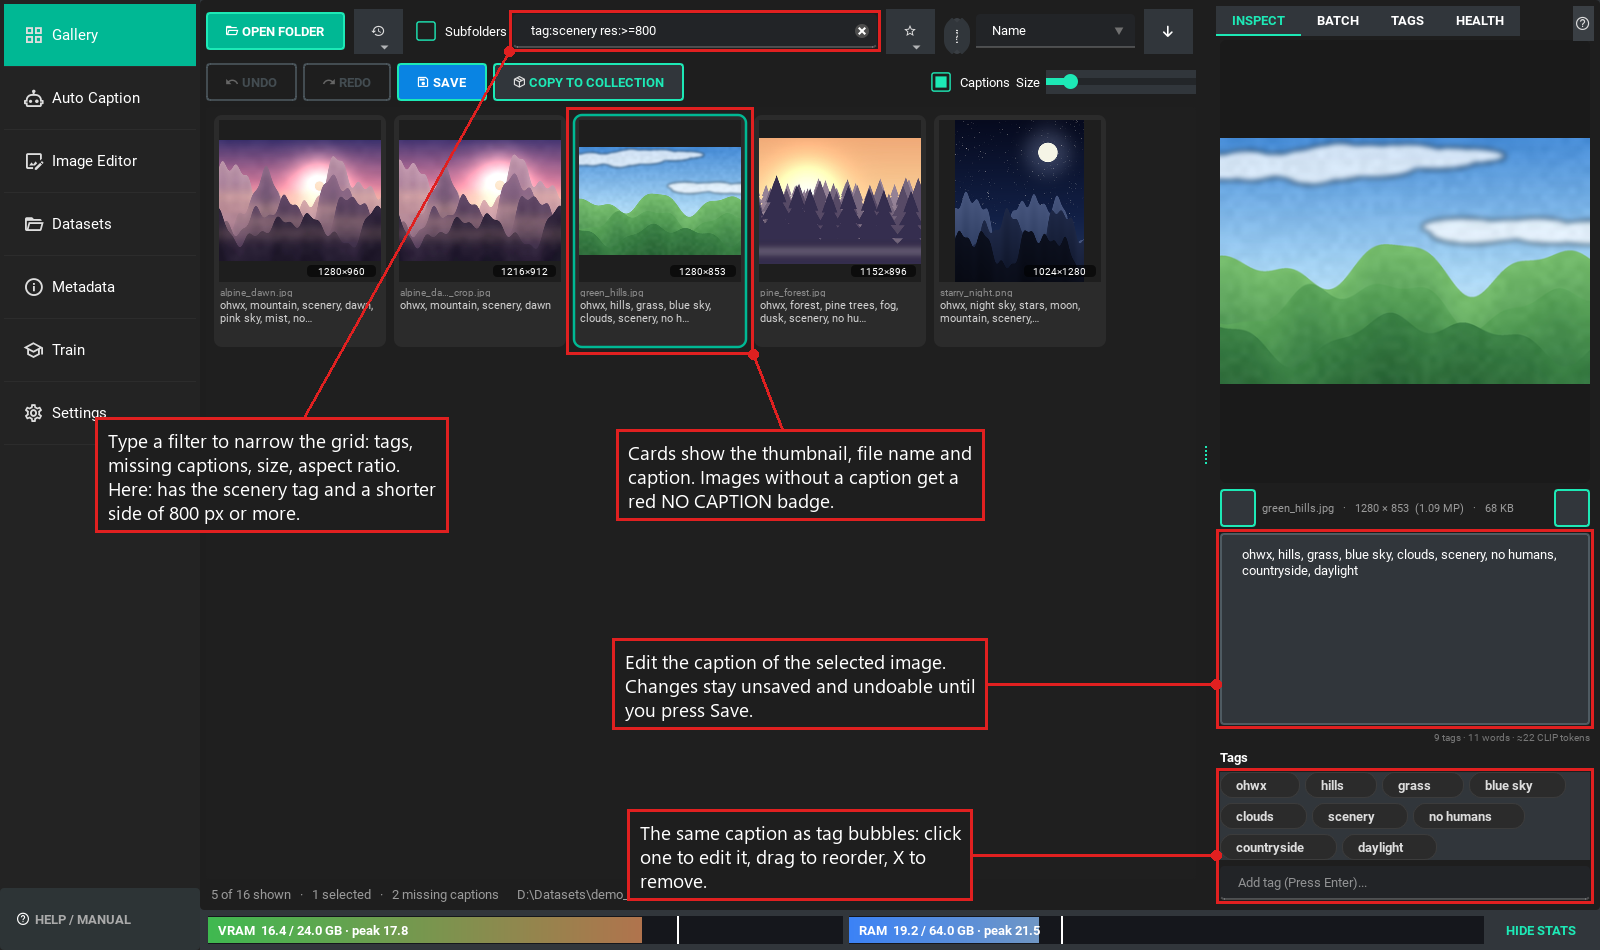
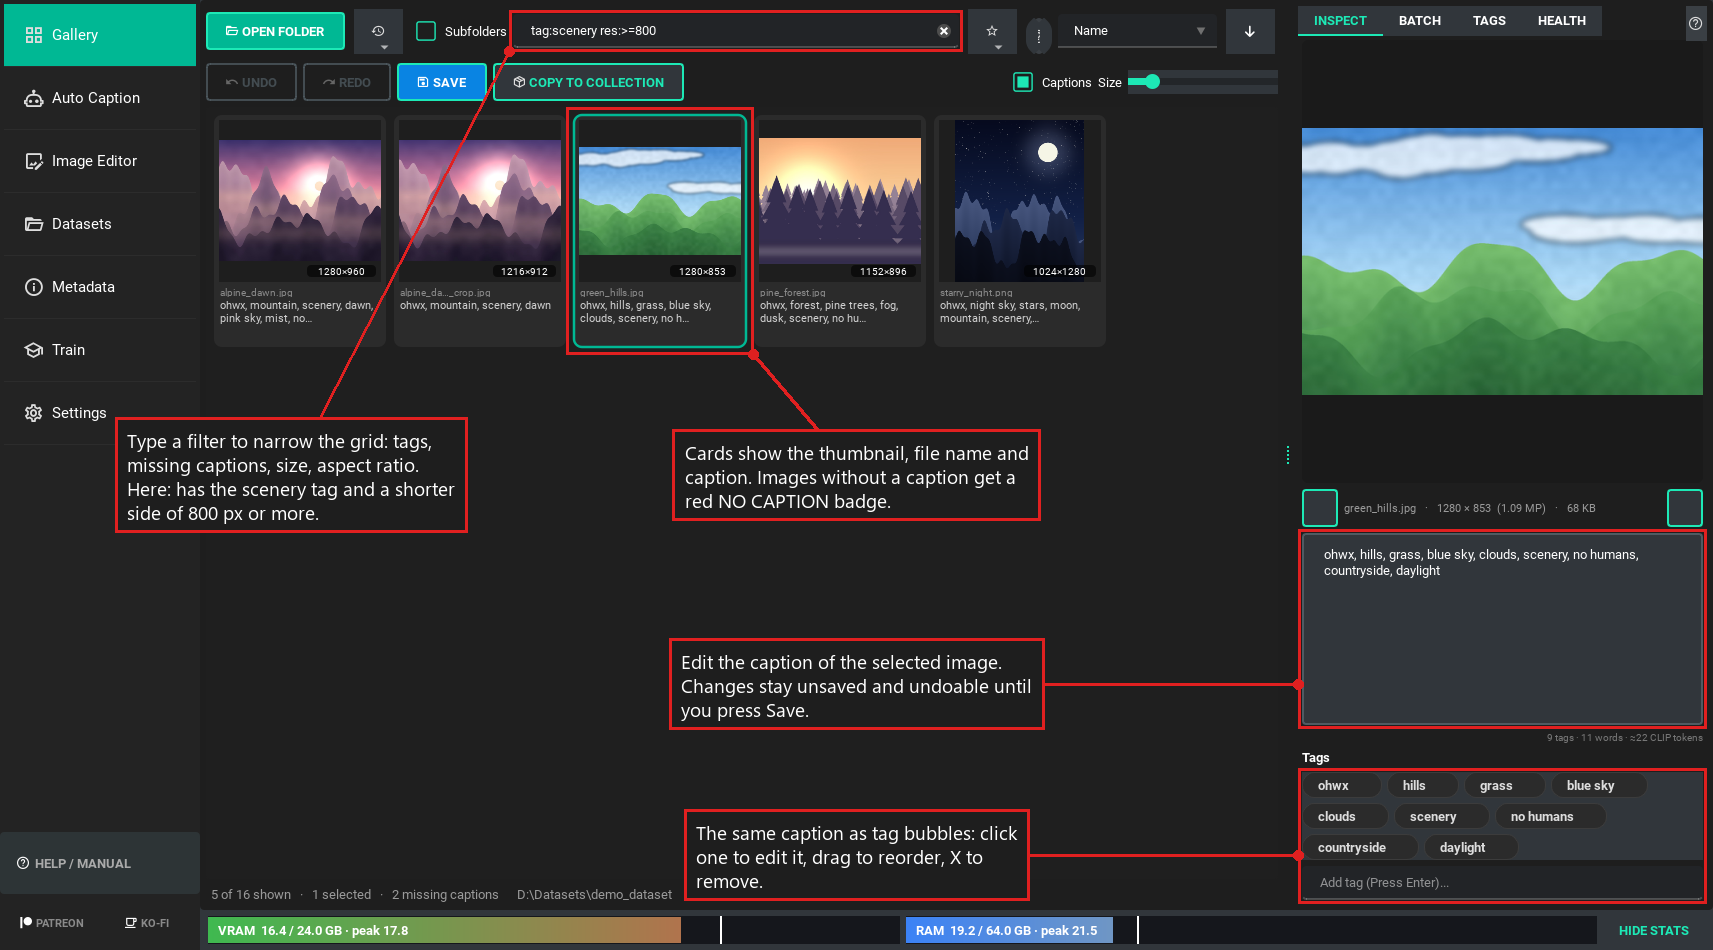
README and screenshots: the current state of the app
Screenshots regenerated with tools/make_screenshots.py (generated demo data):
sidebar icons and support links, the renamed presets and "Hard images", the
new Auto Caption options, "Copy log for sharing" and "Export for sharing".
What's new gains the faster captioning pipeline, the thorough metadata
cleaning, a Privacy and safety section, the two new themes and the quicker
workspace, each with what has and has not been run on real hardware.

diff --git a/tools/make_screenshots.py b/tools/make_screenshots.py
@@ -1470,7 +1470,7 @@ def build_shots() -> None:
         Note(lambda s: WINDOW.tab_train.btn_start.parentWidget().findChildren(QPushButton)[0:3],
              "Start, pause after the current epoch, or stop. Pause saves a state you can resume from.", (0.3, 0.25)),
     ], after=reset_train))
-    S(Shot("12_problem_images.png", shot_problem_images, [
+    S(Shot("12_hard_images.png", shot_problem_images, [
         Note(lambda s: row_rect(s.base.table, s.base.stuck_row),
              "Images that are not learning. Stuck and suspect images usually have a wrong or too short caption.",
              (0.28, 0.75)),

diff --git a/README.md b/README.md
@@ -59,12 +59,19 @@ is a dataset studio with training built in.
   OpenAI-compatible server, and the WD v3 taggers.
 - **A review queue** with a word-level diff, so nothing an AI writes replaces your caption until you accept it.
 - **Caption recipes and presets:** a required subject or trigger word, existing tags as hints, your own presets.
+- **Faster large jobs on API servers** (LM Studio, llama.cpp, vLLM, cloud): TagScribeR finds the best number of
+  parallel requests by measuring, prepares pictures ahead on helper threads, can shrink pictures to a pixel budget
+  and can stop a reply that repeats itself. A live line shows pictures per minute and the time left, and a job can
+  be paused and resumed. `tools/bench_caption.py` measures your own server on generated test pictures. (Tested
+  against a simulated server so far; the gain on a real model is for that benchmark to show.)
 
 **Dataset tools**
 
 - **Search-style filters** with saved filters per folder, batch tag editing and tag statistics.
 - **Dataset health:** duplicates and near-duplicates, blur, low resolution and a bucket preview.
 - **Metadata tools:** a privacy audit, lossless cleanup, authorship templates and embedded prompts to captions.
+  Cleaning removes location, device and identity data wherever a file can hide it (GPS, maker notes, IPTC, extended
+  XMP, embedded previews, content credentials, data appended after the picture) and re-reads each file to confirm.
 - **Image editor and export** built on the same workspace, with metadata-preserving edits.
 
 **Training (new)**
@@ -92,11 +99,24 @@ is a dataset studio with training built in.
 - **Edit LoRAs with extra pictures** (Klein up to 3, Qwen Image 2.1 up to 9) and Klein's Steps / CFG following the
   Distilled tick.
 
+**Privacy and safety**
+
+- **API keys** live in the OS keychain, are tied to the server they were saved for, never appear in the log file
+  and are really deleted when you clear them.
+- **Share without leaking:** "Copy log for sharing" replaces your user name and folders with placeholders, and
+  "Export for sharing" saves a training preset without paths or personal text. LoRA files carry no paths.
+- **Untrusted text stays text:** captions, file metadata and server replies are never interpreted as markup.
+- A full security and privacy review is in [docs/dev/audit](docs/dev/audit/14_security_privacy_safety_review.md).
+
 **Everyday use**
 
 - **Ctrl+K command palette, a searchable Help Center** (F1 opens help for the current tab) and tooltips on every
   control. A simple view for beginners and "Show all settings" for everything else.
-- **About 350 automated tests**, which never touch your GPU, so they are safe to run while you train.
+- **Two new themes**, TagScribeR dark and TagScribeR light (Settings, Appearance). The classic look stays the
+  default for now; the screenshots here show it.
+- **A quicker workspace:** coming back to the Gallery, reopening a folder and sorting large folders no longer
+  freeze the window (measured on generated folders of 5,000 pictures; more of this is planned).
+- **Over 1,000 automated tests**, which never touch your GPU, so they are safe to run while you train.
 
 ---
 
@@ -285,7 +305,7 @@ What you get while it runs:
 
 ![Sample previews](docs/screenshots/11_train_samples.png)
 
-![Hard images](docs/screenshots/12_problem_images.png)
+![Hard images](docs/screenshots/12_hard_images.png)
 
 Training runs as separate processes, so the app stays responsive and a crash can't take it down. Each run lives in its own folder: `<output folder>\<LoRA name>\` with checkpoints, `sample\`, `loss_log\` and `run.log`.
 
